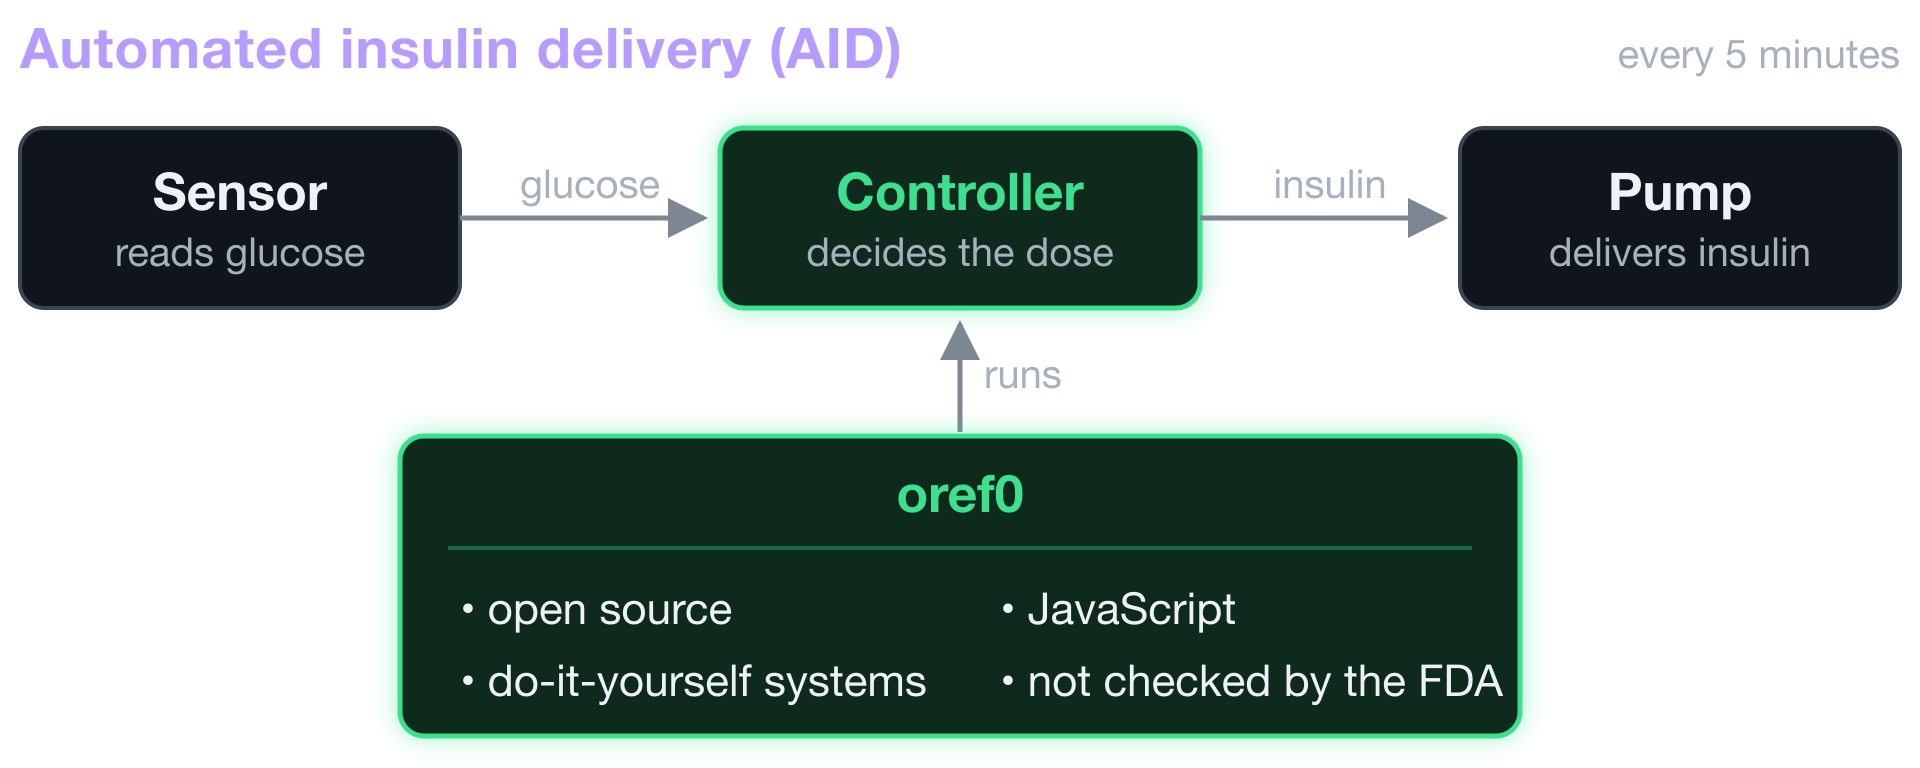
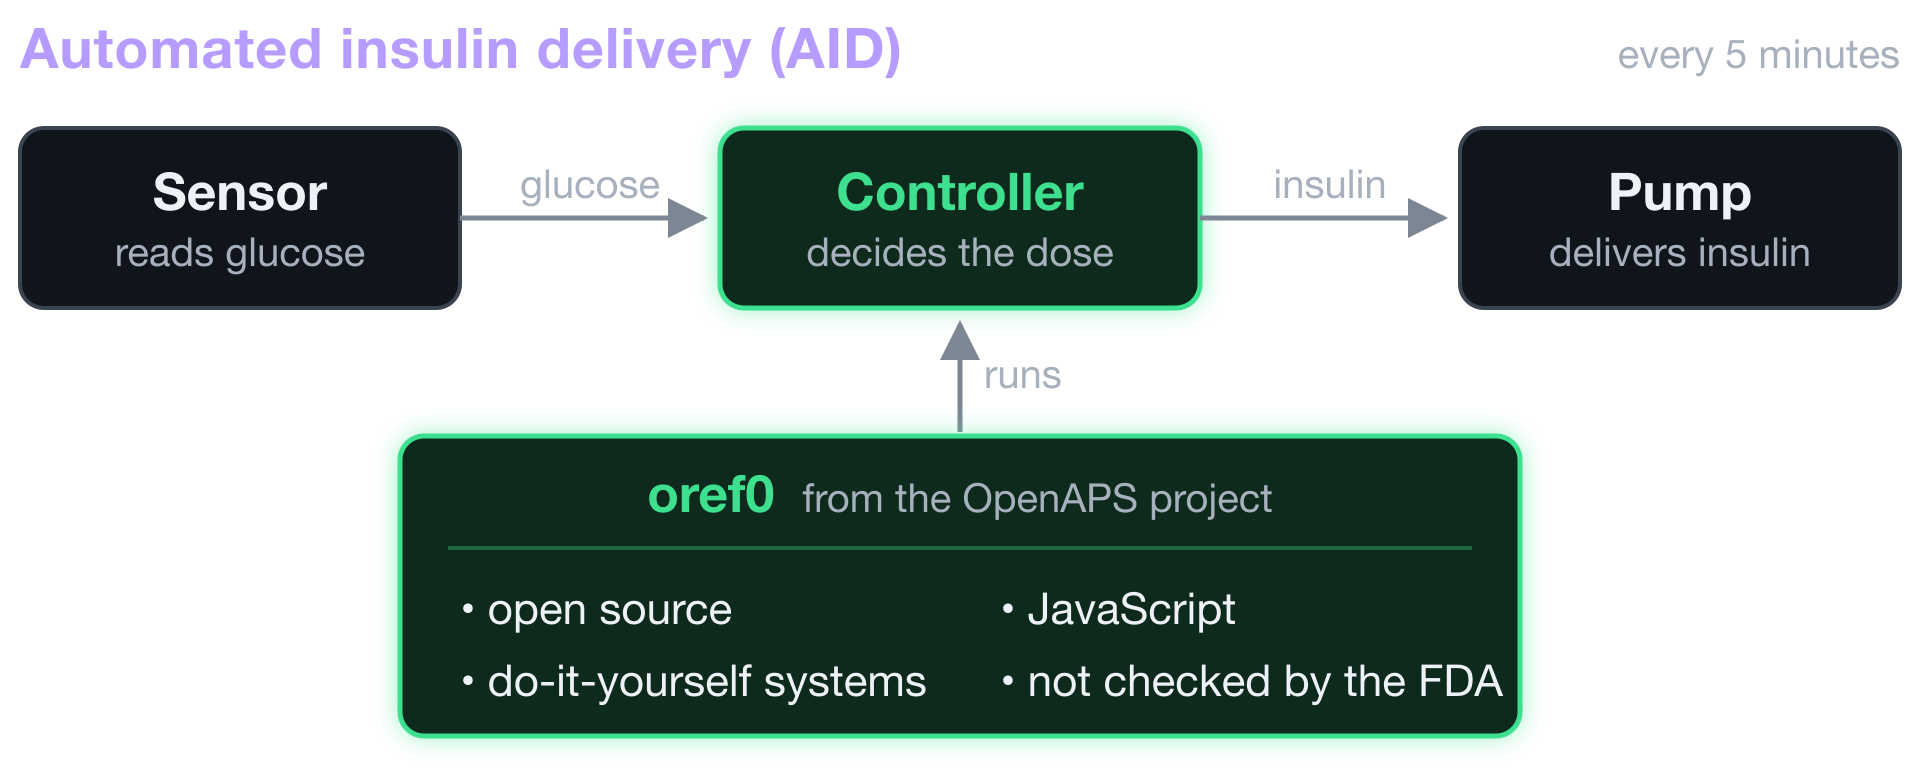
Compact slide: oref0 card names the OpenAPS project

Changed region(s): [[0.3125, 0.625, 0.6562, 0.6875]]

diff --git a/site/img/make_compact.py b/site/img/make_compact.py
@@ -85,12 +85,13 @@ def aid():
     b += arrow("M590 105 H712") + text(655, 95, "s", "insulin", "middle")
     b += arrow("M470 212 V158") + text(482, 190, "s", "runs")
     b += '  <rect class="main" x="190" y="214" width="560" height="150" rx="12"/>\n'
-    b += text(470, 252, "tg", "oref0", "middle")
+    b += ('  <text x="470" y="252" text-anchor="middle"><tspan class="tg">oref0</tspan>'
+          '<tspan class="s" dx="14">from the OpenAPS project</tspan></text>\n')
     b += f'  <line x1="214" y1="270" x2="726" y2="270" stroke="{GREEN}" stroke-opacity="0.35" stroke-width="2"/>\n'
     b += text(220, 308, "i", "•  open source") + text(490, 308, "i", "•  JavaScript")
     b += text(220, 344, "i", "•  do-it-yourself systems") + text(490, 344, "i", "•  not checked by the FDA")
     return svg(b, "Automated insulin delivery: every 5 minutes a sensor sends glucose to the controller, "
-                  "which sends an insulin dose to the pump. The controller runs oref0: open source, JavaScript, "
+                  "which sends an insulin dose to the pump. The controller runs oref0, from the OpenAPS project: open source, JavaScript, "
                   "used in do-it-yourself systems, not checked by the FDA.", h=370)
 
 
